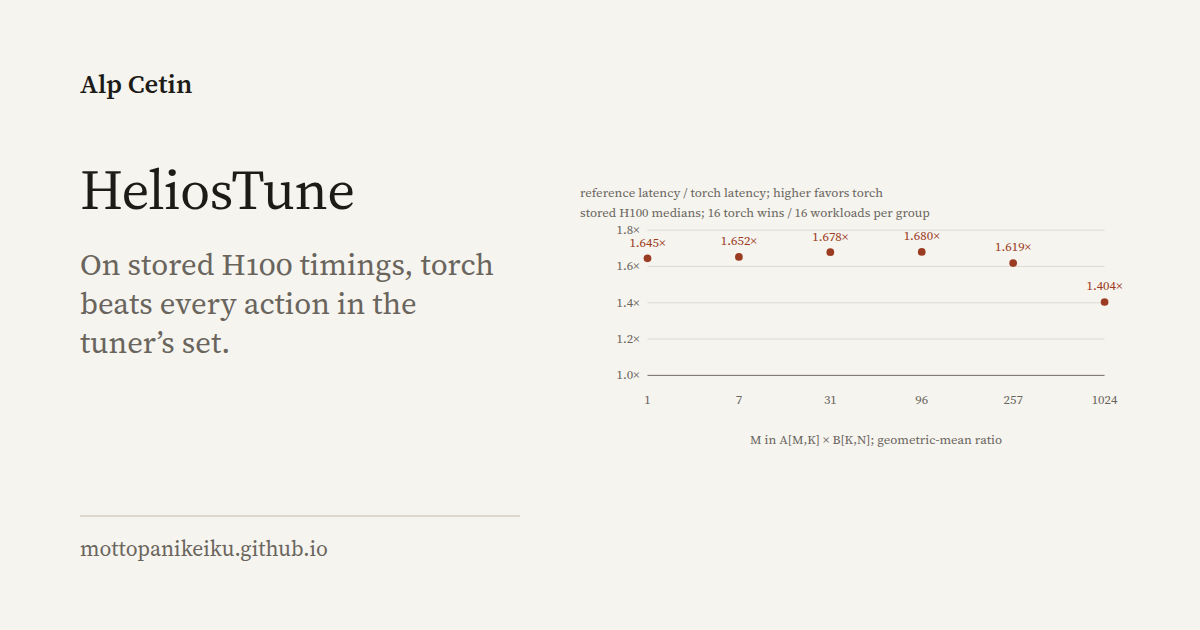
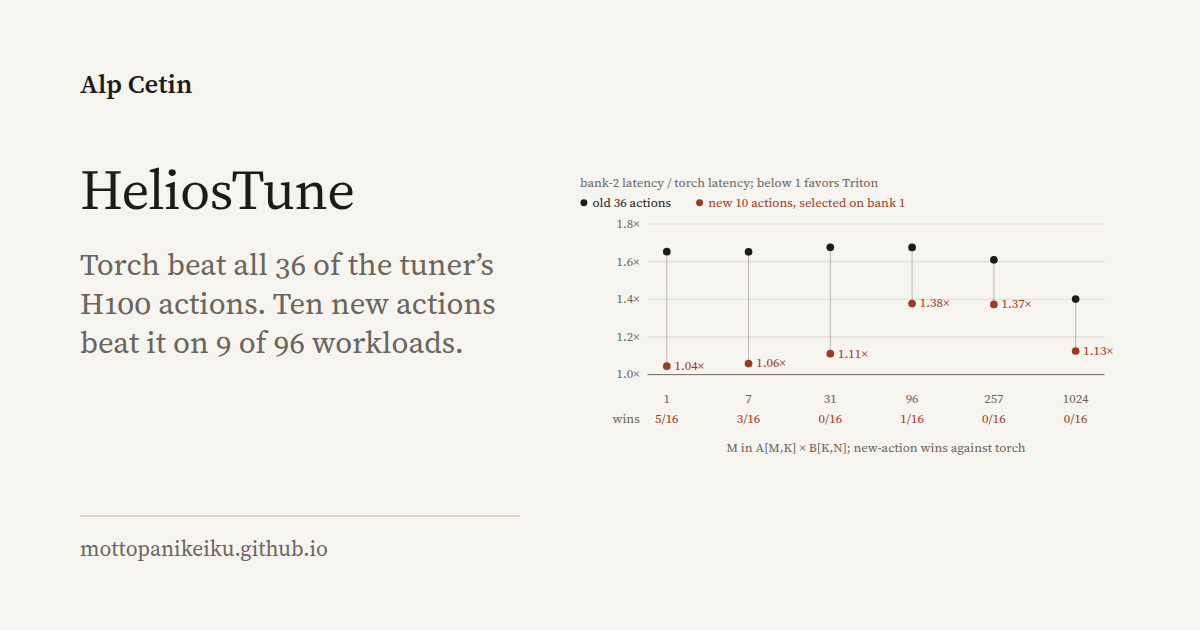
Publish the HeliosTune H100 action-expansion comparison

diff --git a/projects/heliostune/index.html b/projects/heliostune/index.html
@@ -4,7 +4,7 @@
   <meta charset="utf-8">
   <meta name="viewport" content="width=device-width, initial-scale=1">
   <title>HeliosTune · Alp Cetin</title>
-  <meta name="description" content="An audit of old H100 timings: torch.matmul has lower stored median latency on all 96 workloads, even against the fastest of 36 curated Triton actions.">
+  <meta name="description" content="Torch.matmul beat all 36 curated Triton actions on 96 stored H100 workloads. In fresh H100 timings, ten new Hopper-aware actions beat it on 9 of 96.">
   <link rel="canonical" href="https://mottopanikeiku.github.io/projects/heliostune/">
   <meta name="color-scheme" content="light dark">
   <meta name="theme-color" media="(prefers-color-scheme: light)" content="#f6f4ef">
@@ -17,7 +17,7 @@
   <meta property="og:type" content="article">
   <meta property="og:site_name" content="Alp Cetin">
   <meta property="og:title" content="HeliosTune">
-  <meta property="og:description" content="The action set limits H100 tuning: an audit of old measurements, not new GPU timings.">
+  <meta property="og:description" content="The action set limits H100 tuning: ten new Hopper-aware actions beat torch on 9 of 96 workloads; the old 36 on none.">
   <meta property="og:url" content="https://mottopanikeiku.github.io/projects/heliostune/">
   <meta property="og:image" content="https://mottopanikeiku.github.io/og/heliostune.png">
   <meta property="og:image:width" content="1200">
@@ -36,13 +36,13 @@
 
     <div class="intro">
       <h1>HeliosTune</h1>
-      <p>The action set limits H100 tuning: torch.matmul has lower stored median latency on all 96 workloads, even against the fastest of 36 curated Triton actions.</p>
+      <p>The action set limits H100 tuning: torch.matmul beat the fastest of 36 curated Triton actions on all 96 workloads. Ten new Hopper-aware actions beat it on 9.</p>
     </div>
 
     <section class="block" aria-labelledby="question">
       <h2 id="question">Question</h2>
       <div class="prose">
-        <p>I originally asked whether tuning data from L4, A10 and T4 GPUs could reduce the probes needed on an H100. This audit asks a more basic question: could better search over the existing actions erase the measured gap to torch.matmul?</p>
+        <p>I originally asked whether tuning data from L4, A10 and T4 GPUs could reduce the probes needed on an H100. An audit then asked a more basic question: could better search over the existing actions erase the measured gap to torch.matmul? If not, do better actions?</p>
       </div>
     </section>
 
@@ -52,6 +52,7 @@
         <p>I audited old stored timings for 96 workloads covering 84 unique matrix shapes from four model families, with 36 curated Triton actions. The historical collector timed warmed, allocating FP16 calls; this is a descriptive reanalysis, not a new timing collection. I select each workload’s reference configuration on bank 1 and score it and torch.matmul on bank 2.</p>
         <p>The audit ratio is reference_latency / torch_latency; above one favors torch. I take the geometric mean over workloads. The reference is the best curated action selected on bank 1, not a hardware ceiling. I also inspect the fastest action on bank 2 itself as an optimistic diagnostic.</p>
         <p>The original policy uses nearby-shape <a href="https://github.com/mottopanikeiku/heliostune/blob/75f18ed8ee2d93e2d58935e3d5599ae95a32a46d/src/heliostune/retrieval.py">retrieval</a> and <a href="https://github.com/mottopanikeiku/heliostune/blob/75f18ed8ee2d93e2d58935e3d5599ae95a32a46d/src/heliostune/bandit.py">Bayesian linear Thompson sampling</a>. Parhelion starts with a retrieved recommendation, then adapts. Test workloads and their model families were held out of the retrieval archive. Its probe budgets replay exhaustive measurements; they do not measure reduced physical acquisition cost.</p>
+        <p>To test the action set directly, I added ten Hopper-aware actions: larger tiles, deeper pipelines, persistent TMA based on <a href="https://github.com/triton-lang/triton/blob/v3.4.0/python/tutorials/09-persistent-matmul.py">Triton’s tutorial</a>, and tensor-core split-K for M = 1, 7 and 31. I committed the <a href="https://github.com/mottopanikeiku/heliostune/blob/f50b27e2c0664d7c9c082e2483867b1381623200/docs/action-expansion-plan.md">fixed action set and analysis plan</a> before collecting data, then remeasured all 96 workloads on one H100, timing allocation, workspace and both split-K launches. Bank 1 selects the fastest valid action separately from the old and new sets; bank 2 scores only those winners and same-session torch.</p>
       </div>
     </section>
 
@@ -62,6 +63,11 @@
         <figure class="figure">
           <div class="scroll" tabindex="0" role="region" aria-labelledby="helios-audit-title"><!-- figure:helios-audit --><svg class="chart" viewBox="0 0 560 280" role="img" aria-labelledby="helios-audit-title helios-audit-desc"><title id="helios-audit-title">Stored H100 reference-to-torch latency ratios by matrix row count</title><desc id="helios-audit-desc">In each of six row-count groups, torch.matmul has lower stored median latency than the bank-1-selected Triton reference on all 16 workloads. Geometric-mean reference-to-torch ratios range from 1.404 to 1.680. These are old measurements reanalyzed, without uncertainty estimates or new timings.</desc><text x="0" y="18">reference latency / torch latency; higher favors torch</text><text x="0" y="38">stored H100 medians; 16 torch wins / 16 workloads per group</text><line class="axis" x1="70" y1="202.6" x2="544" y2="202.6"/><text text-anchor="end" x="62" y="206.6">1.0×</text><line class="grid" x1="70" y1="164.9" x2="544" y2="164.9"/><text text-anchor="end" x="62" y="168.9">1.2×</text><line class="grid" x1="70" y1="127.3" x2="544" y2="127.3"/><text text-anchor="end" x="62" y="131.3">1.4×</text><line class="grid" x1="70" y1="89.6" x2="544" y2="89.6"/><text text-anchor="end" x="62" y="93.6">1.6×</text><line class="grid" x1="70" y1="52" x2="544" y2="52"/><text text-anchor="end" x="62" y="56">1.8×</text><circle class="dot em" cx="70" cy="81.2" r="4"/><text class="em" text-anchor="middle" x="70" y="69.2">1.645×</text><text text-anchor="middle" x="70" y="232">1</text><circle class="dot em" cx="164.8" cy="79.8" r="4"/><text class="em" text-anchor="middle" x="164.8" y="67.8">1.652×</text><text text-anchor="middle" x="164.8" y="232">7</text><circle class="dot em" cx="259.6" cy="74.9" r="4"/><text class="em" text-anchor="middle" x="259.6" y="62.9">1.678×</text><text text-anchor="middle" x="259.6" y="232">31</text><circle class="dot em" cx="354.4" cy="74.6" r="4"/><text class="em" text-anchor="middle" x="354.4" y="62.6">1.680×</text><text text-anchor="middle" x="354.4" y="232">96</text><circle class="dot em" cx="449.2" cy="86.1" r="4"/><text class="em" text-anchor="middle" x="449.2" y="74.1">1.619×</text><text text-anchor="middle" x="449.2" y="232">257</text><circle class="dot em" cx="544" cy="126.5" r="4"/><text class="em" text-anchor="middle" x="544" y="114.5">1.404×</text><text text-anchor="middle" x="544" y="232">1024</text><text text-anchor="middle" x="307" y="274">M in A[M,K] × B[K,N]; geometric-mean ratio</text></svg><!-- /figure:helios-audit --></div>
           <figcaption>H100 geometric-mean reference_latency / torch_latency by M in A[M,K] × B[K,N], for M = 1, 7, 31, 96, 257 and 1024. Each group has 16 workloads, all with lower stored torch medians. Reference selection uses bank 1; scoring uses bank 2. Data: <a href="https://github.com/mottopanikeiku/heliostune/blob/75f18ed8ee2d93e2d58935e3d5599ae95a32a46d/results/action-set-audit.json">action-set-audit.json</a>.</figcaption>
+        </figure>
+        <p>In fresh H100 timings, the new actions beat torch on 9 of 96 workloads, with one exact tie and 86 losses; the old 36 beat it on none. The geometric-mean ratio to torch fell from 1.608 to 1.174, and the new set was faster than the old on 95 of 96 workloads, cutting geometric-mean latency by 27.0%. Six wins use split-K and three use larger ordinary tiles; five margins are below 1%, and the largest saving is 5.55%, on Qwen2.5-7B’s M=1 FFN-down projection. No selected new action beats torch at M = 31, 257 or 1,024.</p>
+        <figure class="figure">
+          <div class="scroll" tabindex="0" role="region" aria-labelledby="helios-expansion-title"><!-- figure:helios-expansion --><svg class="chart" viewBox="0 0 560 300" role="img" aria-labelledby="helios-expansion-title helios-expansion-desc"><title id="helios-expansion-title">Ten new Triton actions narrow, but rarely close, the H100 gap to torch.matmul</title><desc id="helios-expansion-desc">Geometric-mean bank-2 latency relative to torch by row count M, 16 workloads per group. The old 36 actions range from 1.401 to 1.676 times torch. With the new actions selected on bank 1, ratios range from 1.045 at M=1 to 1.378 at M=96. New actions beat torch on 5, 3, 0, 1, 0 and 0 workloads and tie on one.</desc><text x="0" y="18">bank-2 latency / torch latency; below 1 favors Triton</text><circle class="dot strong" cx="4" cy="34" r="3.6"/><text class="strong" x="13" y="38">old 36 actions</text><circle class="dot em" cx="124" cy="34" r="3.6"/><text class="em" x="133" y="38">new 10 actions, selected on bank 1</text><line class="axis" x1="70" y1="212.2" x2="544" y2="212.2"/><text text-anchor="end" x="62" y="216.2">1.0×</text><line class="grid" x1="70" y1="173.2" x2="544" y2="173.2"/><text text-anchor="end" x="62" y="177.2">1.2×</text><line class="grid" x1="70" y1="134.1" x2="544" y2="134.1"/><text text-anchor="end" x="62" y="138.1">1.4×</text><line class="grid" x1="70" y1="95.1" x2="544" y2="95.1"/><text text-anchor="end" x="62" y="99.1">1.6×</text><line class="grid" x1="70" y1="56" x2="544" y2="56"/><text text-anchor="end" x="62" y="60">1.8×</text><text text-anchor="end" x="62" y="262">wins</text><line class="line faint" x1="90" y1="84.7" x2="90" y2="203.5"/><circle class="dot strong" cx="90" cy="84.7" r="4"/><circle class="dot em" cx="90" cy="203.5" r="4"/><text class="em" x="98" y="207.5">1.04×</text><text text-anchor="middle" x="90" y="242">1</text><text class="em" text-anchor="middle" x="90" y="262">5/16</text><line class="line faint" x1="174.8" y1="84.9" x2="174.8" y2="200.7"/><circle class="dot strong" cx="174.8" cy="84.9" r="4"/><circle class="dot em" cx="174.8" cy="200.7" r="4"/><text class="em" x="182.8" y="204.7">1.06×</text><text text-anchor="middle" x="174.8" y="242">7</text><text class="em" text-anchor="middle" x="174.8" y="262">3/16</text><line class="line faint" x1="259.6" y1="80.2" x2="259.6" y2="190.5"/><circle class="dot strong" cx="259.6" cy="80.2" r="4"/><circle class="dot em" cx="259.6" cy="190.5" r="4"/><text class="em" x="267.6" y="194.5">1.11×</text><text text-anchor="middle" x="259.6" y="242">31</text><text class="em" text-anchor="middle" x="259.6" y="262">0/16</text><line class="line faint" x1="344.4" y1="80.3" x2="344.4" y2="138.5"/><circle class="dot strong" cx="344.4" cy="80.3" r="4"/><circle class="dot em" cx="344.4" cy="138.5" r="4"/><text class="em" x="352.4" y="142.5">1.38×</text><text text-anchor="middle" x="344.4" y="242">96</text><text class="em" text-anchor="middle" x="344.4" y="262">1/16</text><line class="line faint" x1="429.2" y1="93.2" x2="429.2" y2="139.4"/><circle class="dot strong" cx="429.2" cy="93.2" r="4"/><circle class="dot em" cx="429.2" cy="139.4" r="4"/><text class="em" x="437.2" y="143.4">1.37×</text><text text-anchor="middle" x="429.2" y="242">257</text><text class="em" text-anchor="middle" x="429.2" y="262">0/16</text><line class="line faint" x1="514" y1="133.9" x2="514" y2="187.7"/><circle class="dot strong" cx="514" cy="133.9" r="4"/><circle class="dot em" cx="514" cy="187.7" r="4"/><text class="em" x="522" y="191.7">1.13×</text><text text-anchor="middle" x="514" y="242">1024</text><text class="em" text-anchor="middle" x="514" y="262">0/16</text><text text-anchor="middle" x="307" y="292">M in A[M,K] × B[K,N]; new-action wins against torch</text></svg><!-- /figure:helios-expansion --></div>
+          <figcaption>Fresh H100 geometric-mean bank-2 latency / torch latency by M, for the old 36 actions and for the ten new actions selected on bank 1. Bottom row: new-action wins against torch per 16 workloads. These are descriptive medians, not significance tests. Data: <a href="https://github.com/mottopanikeiku/heliostune/blob/f50b27e2c0664d7c9c082e2483867b1381623200/results/action-expansion-summary.json">action-expansion-summary.json</a>.</figcaption>
         </figure>
         <p>The separate GPU overview counts lower torch medians on <strong>31/96 L4, 31/96 A10, 94/96 T4 and 96/96 H100</strong> workloads. L4 and A10 are mixed, not uniformly dominated. These are within-GPU summaries from separate acquisition stages, not a pooled four-GPU policy result.</p>
         <p>The historical transfer comparison is smaller: cold-start Thompson sampling scored <strong>0.958434</strong> against Parhelion’s <strong>0.950259</strong>, averaged over budgets 1–8. Here score means reference_latency / selected_latency, so higher is better. The original aggregation averages model-family geometric means over policy seeds, then averages the eight budgets; it differs from the audit’s single workload geometric mean.</p>
@@ -78,15 +84,15 @@
       <div class="prose">
         <p>Torch’s within-run spreads were not stored, so the positive counts are not significance tests or proof of a robust advantage on every workload. One near-tie saves only 0.096 µs. Policy-seed intervals are not hardware-repeat uncertainty, and repeated shapes across models are not independent devices.</p>
         <p>Old warmed medians omit compilation, policy computation and serving overhead. Timed torch FP16 accumulation settings were not fully recorded. Correctness used a separate FP32-input torch reference with TF32 disabled, converted to FP16; that check does not prove matched accumulation in the timed comparison.</p>
-        <p>This fixed corpus does not identify a causal hardware bottleneck or show that a broader Triton action set would lose. The separate H200 engineering run used a different protocol and is not pooled here.</p>
+        <p>The expansion is one H100 collection, not a device-replication study, and its quantiles describe spread, not confidence intervals. Ten new actions do not establish a hardware optimum, and I did not rerun the transfer policies on the expanded bank. The audit corpus does not identify a causal hardware bottleneck. The separate H200 engineering run used a different protocol and is not pooled here.</p>
       </div>
     </section>
 
     <section class="block" aria-labelledby="links">
       <h2 id="links">Links</h2>
       <ul class="rows">
-        <li class="entry"><p class="title"><a href="https://github.com/mottopanikeiku/heliostune/tree/75f18ed8ee2d93e2d58935e3d5599ae95a32a46d">Code and timing data</a> <span class="org">GitHub</span></p></li>
-        <li class="entry"><p class="title"><a href="https://github.com/mottopanikeiku/heliostune/blob/75f18ed8ee2d93e2d58935e3d5599ae95a32a46d/README.md">Study summary and source contracts</a></p></li>
+        <li class="entry"><p class="title"><a href="https://github.com/mottopanikeiku/heliostune/tree/f50b27e2c0664d7c9c082e2483867b1381623200">Code and timing data</a> <span class="org">GitHub</span></p></li>
+        <li class="entry"><p class="title"><a href="https://github.com/mottopanikeiku/heliostune/blob/f50b27e2c0664d7c9c082e2483867b1381623200/README.md">Study summary and source contracts</a></p></li>
         <li class="entry"><p class="title"><a href="https://github.com/mottopanikeiku/heliostune/blob/75f18ed8ee2d93e2d58935e3d5599ae95a32a46d/scripts/audit_matmul_action_set.py">Audit method</a></p></li>
       </ul>
     </section>

diff --git a/tools/cards.html b/tools/cards.html
@@ -133,9 +133,9 @@
   <div class="card project" id="og-heliostune">
     <p class="name">Alp Cetin</p>
     <h1>HeliosTune</h1>
-    <p class="question">On stored H100 timings, torch beats every action in the tuner’s set.</p>
+    <p class="question">Torch beat all 36 of the tuner’s H100 actions. Ten new actions beat it on 9 of 96 workloads.</p>
     <p class="url">mottopanikeiku.github.io</p>
-    <div class="plot"><!-- figure:helios-audit --><svg class="chart" viewBox="0 0 560 280" role="img" aria-labelledby="helios-audit-title helios-audit-desc"><title id="helios-audit-title">Stored H100 reference-to-torch latency ratios by matrix row count</title><desc id="helios-audit-desc">In each of six row-count groups, torch.matmul has lower stored median latency than the bank-1-selected Triton reference on all 16 workloads. Geometric-mean reference-to-torch ratios range from 1.404 to 1.680. These are old measurements reanalyzed, without uncertainty estimates or new timings.</desc><text x="0" y="18">reference latency / torch latency; higher favors torch</text><text x="0" y="38">stored H100 medians; 16 torch wins / 16 workloads per group</text><line class="axis" x1="70" y1="202.6" x2="544" y2="202.6"/><text text-anchor="end" x="62" y="206.6">1.0×</text><line class="grid" x1="70" y1="164.9" x2="544" y2="164.9"/><text text-anchor="end" x="62" y="168.9">1.2×</text><line class="grid" x1="70" y1="127.3" x2="544" y2="127.3"/><text text-anchor="end" x="62" y="131.3">1.4×</text><line class="grid" x1="70" y1="89.6" x2="544" y2="89.6"/><text text-anchor="end" x="62" y="93.6">1.6×</text><line class="grid" x1="70" y1="52" x2="544" y2="52"/><text text-anchor="end" x="62" y="56">1.8×</text><circle class="dot em" cx="70" cy="81.2" r="4"/><text class="em" text-anchor="middle" x="70" y="69.2">1.645×</text><text text-anchor="middle" x="70" y="232">1</text><circle class="dot em" cx="164.8" cy="79.8" r="4"/><text class="em" text-anchor="middle" x="164.8" y="67.8">1.652×</text><text text-anchor="middle" x="164.8" y="232">7</text><circle class="dot em" cx="259.6" cy="74.9" r="4"/><text class="em" text-anchor="middle" x="259.6" y="62.9">1.678×</text><text text-anchor="middle" x="259.6" y="232">31</text><circle class="dot em" cx="354.4" cy="74.6" r="4"/><text class="em" text-anchor="middle" x="354.4" y="62.6">1.680×</text><text text-anchor="middle" x="354.4" y="232">96</text><circle class="dot em" cx="449.2" cy="86.1" r="4"/><text class="em" text-anchor="middle" x="449.2" y="74.1">1.619×</text><text text-anchor="middle" x="449.2" y="232">257</text><circle class="dot em" cx="544" cy="126.5" r="4"/><text class="em" text-anchor="middle" x="544" y="114.5">1.404×</text><text text-anchor="middle" x="544" y="232">1024</text><text text-anchor="middle" x="307" y="274">M in A[M,K] × B[K,N]; geometric-mean ratio</text></svg><!-- /figure:helios-audit --></div>
+    <div class="plot"><!-- figure:helios-expansion --><svg class="chart" viewBox="0 0 560 300" role="img" aria-labelledby="helios-expansion-title helios-expansion-desc"><title id="helios-expansion-title">Ten new Triton actions narrow, but rarely close, the H100 gap to torch.matmul</title><desc id="helios-expansion-desc">Geometric-mean bank-2 latency relative to torch by row count M, 16 workloads per group. The old 36 actions range from 1.401 to 1.676 times torch. With the new actions selected on bank 1, ratios range from 1.045 at M=1 to 1.378 at M=96. New actions beat torch on 5, 3, 0, 1, 0 and 0 workloads and tie on one.</desc><text x="0" y="18">bank-2 latency / torch latency; below 1 favors Triton</text><circle class="dot strong" cx="4" cy="34" r="3.6"/><text class="strong" x="13" y="38">old 36 actions</text><circle class="dot em" cx="124" cy="34" r="3.6"/><text class="em" x="133" y="38">new 10 actions, selected on bank 1</text><line class="axis" x1="70" y1="212.2" x2="544" y2="212.2"/><text text-anchor="end" x="62" y="216.2">1.0×</text><line class="grid" x1="70" y1="173.2" x2="544" y2="173.2"/><text text-anchor="end" x="62" y="177.2">1.2×</text><line class="grid" x1="70" y1="134.1" x2="544" y2="134.1"/><text text-anchor="end" x="62" y="138.1">1.4×</text><line class="grid" x1="70" y1="95.1" x2="544" y2="95.1"/><text text-anchor="end" x="62" y="99.1">1.6×</text><line class="grid" x1="70" y1="56" x2="544" y2="56"/><text text-anchor="end" x="62" y="60">1.8×</text><text text-anchor="end" x="62" y="262">wins</text><line class="line faint" x1="90" y1="84.7" x2="90" y2="203.5"/><circle class="dot strong" cx="90" cy="84.7" r="4"/><circle class="dot em" cx="90" cy="203.5" r="4"/><text class="em" x="98" y="207.5">1.04×</text><text text-anchor="middle" x="90" y="242">1</text><text class="em" text-anchor="middle" x="90" y="262">5/16</text><line class="line faint" x1="174.8" y1="84.9" x2="174.8" y2="200.7"/><circle class="dot strong" cx="174.8" cy="84.9" r="4"/><circle class="dot em" cx="174.8" cy="200.7" r="4"/><text class="em" x="182.8" y="204.7">1.06×</text><text text-anchor="middle" x="174.8" y="242">7</text><text class="em" text-anchor="middle" x="174.8" y="262">3/16</text><line class="line faint" x1="259.6" y1="80.2" x2="259.6" y2="190.5"/><circle class="dot strong" cx="259.6" cy="80.2" r="4"/><circle class="dot em" cx="259.6" cy="190.5" r="4"/><text class="em" x="267.6" y="194.5">1.11×</text><text text-anchor="middle" x="259.6" y="242">31</text><text class="em" text-anchor="middle" x="259.6" y="262">0/16</text><line class="line faint" x1="344.4" y1="80.3" x2="344.4" y2="138.5"/><circle class="dot strong" cx="344.4" cy="80.3" r="4"/><circle class="dot em" cx="344.4" cy="138.5" r="4"/><text class="em" x="352.4" y="142.5">1.38×</text><text text-anchor="middle" x="344.4" y="242">96</text><text class="em" text-anchor="middle" x="344.4" y="262">1/16</text><line class="line faint" x1="429.2" y1="93.2" x2="429.2" y2="139.4"/><circle class="dot strong" cx="429.2" cy="93.2" r="4"/><circle class="dot em" cx="429.2" cy="139.4" r="4"/><text class="em" x="437.2" y="143.4">1.37×</text><text text-anchor="middle" x="429.2" y="242">257</text><text class="em" text-anchor="middle" x="429.2" y="262">0/16</text><line class="line faint" x1="514" y1="133.9" x2="514" y2="187.7"/><circle class="dot strong" cx="514" cy="133.9" r="4"/><circle class="dot em" cx="514" cy="187.7" r="4"/><text class="em" x="522" y="191.7">1.13×</text><text text-anchor="middle" x="514" y="242">1024</text><text class="em" text-anchor="middle" x="514" y="262">0/16</text><text text-anchor="middle" x="307" y="292">M in A[M,K] × B[K,N]; new-action wins against torch</text></svg><!-- /figure:helios-expansion --></div>
   </div>
   <div class="card project" id="og-control-clock">
     <p class="name">Alp Cetin</p>

diff --git a/index.html b/index.html
@@ -128,7 +128,7 @@
         <li class="entry brief">
           <h3 class="title"><a href="/projects/heliostune/" data-print="github.com/mottopanikeiku/heliostune">HeliosTune</a></h3>
           <p class="year"><time datetime="2026">2026</time></p>
-          <p class="desc">A Thompson-sampling autotuner for Triton matmul kernels, built to test whether timings from cheaper GPUs can warm-start H100 tuning. Transfer didn’t improve this study, and a later audit found that torch.matmul beat all 36 configurations on all 96 stored H100 workloads (1.61× geometric-mean reference/torch ratio). The action set, not the search, is the limit here; L4 and A10 were mixed.</p>
+          <p class="desc">A Thompson-sampling autotuner for Triton matmul kernels, built to test whether timings from cheaper GPUs can warm-start H100 tuning. Transfer didn’t improve this study, and torch.matmul beat all 36 configurations on all 96 H100 workloads: the action set, not the search, was the limit. Ten new Hopper-aware actions cut the geometric-mean gap from 1.61× to 1.17× torch and won 9 of 96 workloads.</p>
         </li>
         <li class="entry">
           <h3 class="title">Open source</h3>

diff --git a/tools/figures.py b/tools/figures.py
@@ -636,6 +636,40 @@ def helios_audit() -> str:
     return s.render()
 
 
+def helios_expansion() -> str:
+    data = load("helios-expansion")
+    s = SVG("helios-expansion", 560, 300,
+            "Ten new Triton actions narrow, but rarely close, the H100 gap to torch.matmul",
+            "Geometric-mean bank-2 latency relative to torch by row count M, 16 workloads per "
+            "group. The old 36 actions range from 1.401 to 1.676 times torch. With the new "
+            "actions selected on bank 1, ratios range from 1.045 at M=1 to 1.378 at M=96. New "
+            "actions beat torch on 5, 3, 0, 1, 0 and 0 workloads and tie on one.")
+    L, R, top, bottom = 70, 16, 56, 222
+    y = scale(0.95, 1.8, bottom, top)
+    x = scale(0, 5, L + 20, 560 - R - 30)
+    s.text(0, 18, "bank-2 latency / torch latency; below 1 favors Triton")
+    s.circle(4, 34, 3.6, "dot strong")
+    s.text(13, 38, f'old {data["action_counts"]["old"]} actions', "strong")
+    s.circle(124, 34, 3.6, "dot em")
+    s.text(133, 38, f'new {data["action_counts"]["new"]} actions, selected on bank 1', "em")
+    for value in (1, 1.2, 1.4, 1.6, 1.8):
+        s.line(L, y(value), 560 - R, y(value), "axis" if value == 1 else "grid")
+        s.text(L - 8, y(value) + 4, f"{value:.1f}×", anchor="end")
+    s.text(L - 8, 262, "wins", anchor="end")
+    for index, row in enumerate(data["by_m"]):
+        old, new = row["arms"]["old"], row["arms"]["new"]
+        px = x(index)
+        s.line(px, y(old["ratio"]), px, y(new["ratio"]), "line faint")
+        s.circle(px, y(old["ratio"]), 4, "dot strong")
+        s.circle(px, y(new["ratio"]), 4, "dot em")
+        s.text(px + 8, y(new["ratio"]) + 4, f'{new["ratio"]:.2f}×', "em")
+        s.text(px, bottom + 20, str(row["m"]), anchor="middle")
+        s.text(px, 262, f'{new["wins"]}/{row["workloads"]}', "em", "middle")
+    s.text((L + 560 - R) / 2, 292, "M in A[M,K] × B[K,N]; new-action wins against torch",
+           anchor="middle")
+    return s.render()
+
+
 def eval_prospective() -> str:
     data = load("eval-prospective")
     s = SVG("eval-prospective", 560, 250,
@@ -675,6 +709,7 @@ FIGURES = {
     "seed-power": seed_power,
     "verge-human": verge_human,
     "verge-dpo": verge_dpo,
+    "helios-expansion": helios_expansion,
     "quantile-sampled": quantile_sampled,
     "branchpilot-math": branchpilot_math,
     "alignmenttax": alignmenttax,

diff --git a/tools/extract_data.py b/tools/extract_data.py
@@ -54,6 +54,8 @@ SOURCES = {
                           "results/neural/summary.json"),
     "verge-dpo": ("verge-lab", "c70f5cf9731957b912d0c6c1e3399aa85377648a",
                   "results/day-dpo/summary.json"),
+    "helios-expansion": ("heliostune", "f50b27e2c0664d7c9c082e2483867b1381623200",
+                         "results/action-expansion-summary.json"),
 }
 
 
@@ -414,6 +416,27 @@ def helios_audit(raw: dict) -> dict:
     }
 
 
+def helios_expansion(raw: dict) -> dict:
+    def arms(row: dict) -> dict:
+        return {
+            name: {"wins": arm["comparable_win_count"], "ties": arm["comparable_tie_count"],
+                   "losses": arm["comparable_loss_count"],
+                   "ratio": arm["geometric_mean_to_torch"]}
+            for name, arm in row["arms"].items()
+        }
+    return {
+        "plan_commit": raw["plan_commit"], "gpu": raw["hardware"]["device_name"],
+        "action_counts": {name: len(actions) for name, actions in raw["action_set"].items()},
+        "overall": {"workloads": raw["overall"]["named_workload_count"],
+                    "unique_shapes": raw["overall"]["unique_shape_count"],
+                    "arms": arms(raw["overall"]),
+                    "new_to_old": raw["overall"]["old_new_comparison"]["geometric_mean_new_to_old"],
+                    "new_faster": raw["overall"]["old_new_comparison"]["new_faster_count"]},
+        "by_m": [{"m": row["m"], "workloads": row["named_workload_count"], "arms": arms(row)}
+                 for row in raw["by_m"]],
+    }
+
+
 def eval_prospective(raw: dict) -> dict:
     names = {"gsm8k": "GSM8K", "arc": "ARC (direct choice)"}
     return {
@@ -452,6 +475,7 @@ TRANSFORMS = {
     "eval-prospective": eval_prospective,
     "seed-power-neural": seed_power,
     "verge-dpo": verge_dpo,
+    "helios-expansion": helios_expansion,
 }
 
 
